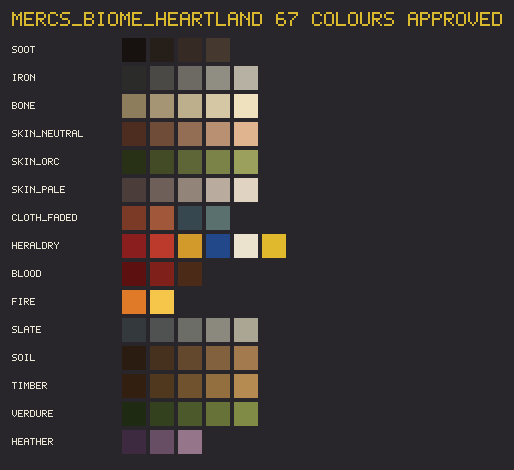
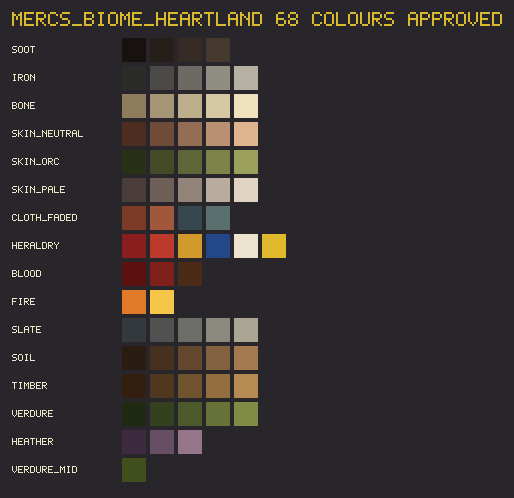
Heartland palette: verdure_mid, one grass step at luma 69 (director 2026-10-16)
Director ruling 2026-10-16 03:15 "Darken to match golden": verdure_mid_0 #40501d
(64,80,29), luma 69.4, between verdure_1 (57) and verdure_2 (80). Same hue as the
verdure midpoint, chroma x1.2, so it is not a near-duplicate of skin_orc_1 (the plain
OKLab midpoint #414e25 was 4 from it). Appended as its own ramp so no index moves.
core + heartland 67 -> 68 (cap 72); look test count and 06 updated.

diff --git a/tools/look/make_palettes.py b/tools/look/make_palettes.py
@@ -2,7 +2,7 @@
 
   python tools/look/make_palettes.py
 
-Each option is one coherent set of named ramps (06_STYLE_ART.md section 2), 64 colours (heartland adds heather: 67). A ramp is
+Each option is one coherent set of named ramps (06_STYLE_ART.md section 2), 64 colours (heartland adds heather and verdure_mid: 68). A ramp is
 given by its darkest and lightest colour; the steps between are spaced evenly in OKLab, so lightness
 climbs evenly and any hue shift between the anchors (cool shadows, warm lights) is spread over the
 ramp. A ramp given as a list keeps those colours as they are (cloth pairs, heraldry, blood, fire).
@@ -36,6 +36,7 @@ PURPOSE = {
     "cloth_faded": "commoner and dark cloth: dull red pair, dull blue pair",
     "verdure": "grass, moss, leaves",
     "heather": "heather, ling and moor flowers: three dusty purples (director, 2026-10-16)",
+    "verdure_mid": "grass mass: one step between verdure_1 and verdure_2, luma ~69 (director, 2026-10-16: darken to match golden)",
     "heraldry": "faction colours only: crimson, gold, blue, white, yellow",
     "blood": "overlay only: two reds and a dried brown",
     "fire": "torch and ember accents",
@@ -69,6 +70,7 @@ OPTIONS = {
             "skin_neutral": ("#4c2d1f", "#e0b48f"), "skin_orc": ("#283016", "#9ba15c"),
             "skin_pale": ("#4b3d39", "#e1d3c2"), "verdure": ("#1e2a12", "#808c46"),
             "heather": ("#3d2a41", "#94758a"),
+            "verdure_mid": ["#40501d"],  # luma 69.4; kept clear of skin_orc (not the plain OKLab midpoint)
             "cloth_faded": ["#7a3a26", "#a0573a", "#37474f", "#59706f"],
             "heraldry": ["#8a1d1d", "#bb3a2c", "#d29a2a", "#22488a", "#ece3cf", "#e0b92c"],
             "blood": ["#5c1010", "#80201a", "#4c2a18"], "fire": ["#e07a28", "#f6c64a"],
@@ -137,7 +139,7 @@ def gpl(name: str, ramps: list[dict]) -> str:
 
 NL = chr(10)
 CORE = ["soot", "iron", "bone", "skin_neutral", "skin_orc", "skin_pale", "cloth_faded", "heraldry", "blood", "fire"]
-BIOME = ["slate", "soil", "timber", "verdure", "heather"]  # heather: biome-only, option B (2026-10-16)
+BIOME = ["slate", "soil", "timber", "verdure", "heather", "verdure_mid"]  # heather, verdure_mid: biome-only, option B (2026-10-16); appended so no index moves
 PICKED = "B"  # director, 2026-10-15: option B "Peat and Ochre" is the look target
 BIOME_NAME = "heartland"
 AUDIT = REPO / "docs" / "audits" / "look_target" / "options"

diff --git a/docs/06_STYLE_ART.md b/docs/06_STYLE_ART.md
@@ -32,7 +32,7 @@ world can change colour by biome while the mercs never do:
   landscapes) are new files with the same ramp names (director, 2026-10-15). No new biome without a
   director decision.
 - Every frame and asset is validated against core + one biome (`validate_palette.py`,
-  `validate_pixels.py --palette <biome>.json`); core + biome holds 48–72 colours (heartland: 44 + 23).
+  `validate_pixels.py --palette <biome>.json`); core + biome holds 48–72 colours (heartland: 44 + 24).
 - Built by `tools/look/make_palettes.py` (ramps spaced in OKLab between hand-set anchors); options A
   and C, not picked, are kept as review records in `docs/audits/look_target/options/`.
 
@@ -49,6 +49,7 @@ Ramps (5–6 steps each, 4 for `soot`):
 | `cloth_faded` dull reds, blues, greens | commoner clothing |
 | `verdure_cold` blue-greens | vegetation |
 | `heather` three dusty purples (biome) | heather and moor flowers (director, 2026-10-16: muted, low saturation, not fantasy-bright) |
+| `verdure_mid` one olive green (biome) | the grass mass, one step between `verdure_1` and `verdure_2` at luma ~69 so open grass matches the golden (director, 2026-10-16: "Darken to match golden"); kept clear of `skin_orc` so the orc does not vanish on grass |
 | `skin_1 … skin_6` | six skin ramps; sprites are rendered in one neutral skin ramp and the shader maps it to the merc's ramp by palette index (never free colour) |
 | `heraldry_*` | saturated faction colours: crimson/gold, blue/white, black/yellow (3 factions in the slice) |
 | `blood` | two reds and a brown for dried |
